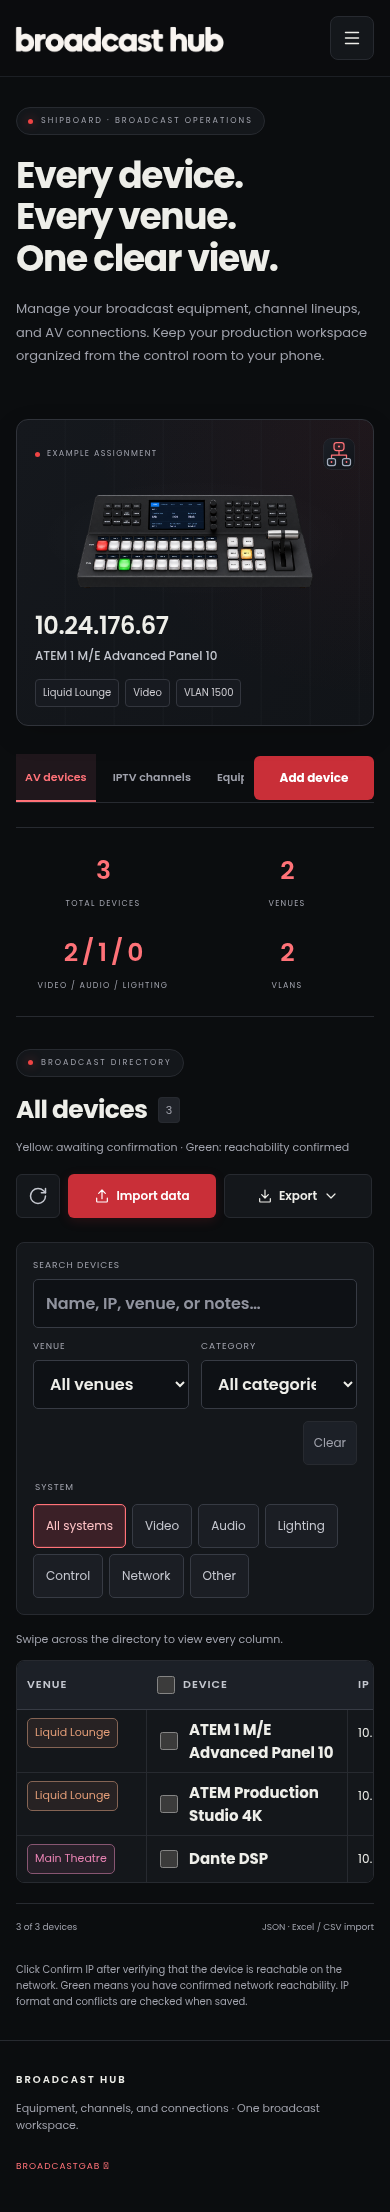
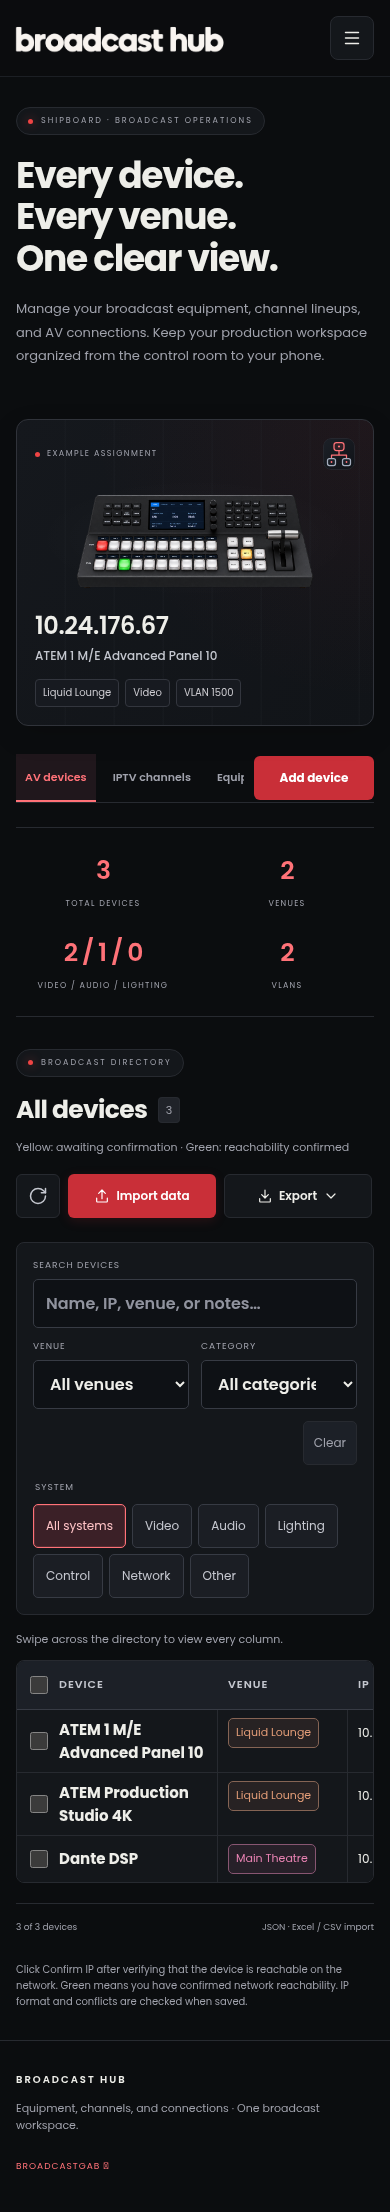
Align table checkboxes, fit inventory columns, and add batch deletion

Changed region(s): [[0.0615, 0.7486, 0.8308, 0.8422]]

diff --git a/static/index.html b/static/index.html
@@ -24,7 +24,7 @@
 <div id="loading" class="empty">Loading your inventory…</div>
 <div id="empty" class="empty" hidden><div class="empty-icon" aria-hidden="true">⌘</div><h3 id="empty-title">Your inventory starts here</h3><p id="empty-description">Add your first device to keep your ship’s AV network organized.</p><button id="empty-add" class="primary">Add a device</button><button id="use-example" class="quiet">Fill ATEM example</button></div>
 <div id="no-results" class="empty" hidden><h3>No matching devices</h3><p>Try a different search or clear the filters.</p></div>
-<div class="selection-summary" id="network-selection-summary" hidden><span id="network-selection-count" aria-live="polite"></span><button id="clear-network-selection" class="quiet" type="button">Clear selection</button></div><p class="directory-scroll-hint">Swipe across the directory to view every column.</p><div id="device-directory" class="device-directory" tabindex="0" role="region" aria-label="Broadcast device directory"><div class="directory-head" id="directory-head"><span id="directory-venue-title">VENUE</span><label class="selection-heading"><input id="select-visible-devices" class="row-select" type="checkbox" aria-label="Select all visible devices"><span id="directory-device-title">DEVICE</span></label><span>IP</span><span id="directory-vlan-title">VLAN</span><span id="directory-system-title">SYSTEM</span><div class="notes-sort-header"><span>NOTES</span><label class="directory-sort">Sort by<select id="sort-order"><option value="">Original order</option><option value="ip-asc">IP · Low to high</option><option value="ip-desc">IP · High to low</option><option value="name-asc">Name · A–Z</option><option value="name-desc">Name · Z–A</option><option value="system-asc">System · A–Z</option><option value="system-desc">System · Z–A</option></select></label><span class="sr-only">Actions</span></div></div><div id="device-list" class="device-list" aria-live="polite"></div></div>
+<div class="selection-summary" id="network-selection-summary" hidden><span id="network-selection-count" aria-live="polite"></span><div class="selection-actions"><button id="clear-network-selection" class="quiet" type="button">Clear selection</button><button id="delete-selected-devices" class="danger" type="button" disabled>Delete selected</button></div></div><p class="directory-scroll-hint">Swipe across the directory to view every column.</p><div id="device-directory" class="device-directory" tabindex="0" role="region" aria-label="Broadcast device directory"><div class="directory-head" id="directory-head"><label class="selection-heading"><input id="select-visible-devices" class="row-select" type="checkbox" aria-label="Select all visible devices"><span id="directory-device-title">DEVICE</span></label><span id="directory-venue-title">VENUE</span><span>IP</span><span id="directory-vlan-title">VLAN</span><span id="directory-system-title">SYSTEM</span><div class="notes-sort-header"><span>NOTES</span><label class="directory-sort">Sort by<select id="sort-order"><option value="">Original order</option><option value="ip-asc">IP · Low to high</option><option value="ip-desc">IP · High to low</option><option value="name-asc">Name · A–Z</option><option value="name-desc">Name · Z–A</option><option value="system-asc">System · A–Z</option><option value="system-desc">System · Z–A</option></select></label><span class="sr-only">Actions</span></div></div><div id="device-list" class="device-list" aria-live="polite"></div></div>
 <footer class="panel-footer"><span id="showing">0 devices</span><span>JSON · Excel / CSV import</span></footer>
 <div id="import-warnings" class="import-warnings" role="status" hidden><h3>Duplicate IP warnings</h3><p>AV IP addresses must be unique. Review skipped import rows or repeated existing assignments below.</p><ul id="import-warning-list"></ul></div>
 </section>
@@ -42,6 +42,7 @@
 </main><footer class="site-footer"><div><strong>BROADCAST HUB</strong><p>Equipment, channels, and connections · One broadcast workspace.</p></div><a href="https://broadcastgab.com" target="_blank" rel="noopener noreferrer">BROADCASTGAB ↗</a></footer>
 <dialog id="device-dialog" aria-labelledby="form-title"><form id="device-form"><div class="dialog-heading"><div><p class="eyebrow">DEVICE DETAILS</p><h2 id="form-title">Add device</h2></div><button type="button" id="close-dialog" class="icon-button" aria-label="Close">✕</button></div><p id="form-intro" class="dialog-intro">Give this device a home in your inventory.</p>
 <div class="form-grid"><input name="record_type" type="hidden" value="device"><label class="full"><span id="name-label">Device name</span><input name="name" maxlength="120" placeholder="e.g. ATEM video switcher" autocomplete="off"></label><label id="category-field">Category<input name="category" maxlength="120" list="categories" placeholder="e.g. Video switcher"><datalist id="categories"><option value="Video switcher"><option value="Camera"><option value="Display"><option value="Audio console"><option value="Amplifier"><option value="Lighting console"><option value="Network switch"><option value="Media server"></datalist></label><label id="form-system-group" class="full">System<select id="form-system" name="discipline"><option value=""></option><option value="Video">Video</option><option value="Audio">Audio</option><option value="Lighting">Lighting</option><option value="Control">Control</option><option value="Network">Network</option><option value="Other">Other</option></select></label><fieldset id="form-source-group" class="form-choices full" hidden><legend>Channel source</legend><input name="channel_source" type="hidden"><div id="form-source-buttons" class="choice-buttons" role="group" aria-label="Channel source"></div></fieldset><label class="full" id="venue-field">Venue<input name="venue" maxlength="120" list="venues" placeholder="e.g. Liquid Lounge"><datalist id="venues"></datalist></label><div class="full" id="venue-suggestions" hidden><p class="suggestion-label">Choose a saved venue, or type a new one above</p><div id="form-venue-buttons" class="choice-buttons" role="group" aria-label="Choose saved venue"></div></div><label>IP address<input name="ip" maxlength="15" inputmode="decimal" placeholder="10.24.176.66" autocomplete="off" spellcheck="false" aria-describedby="ip-hint"><small id="ip-hint">IPv4 · checked when saved</small></label><label id="vlan-field">VLAN<input name="vlan" type="number" min="1" max="4094" step="1" inputmode="numeric" placeholder="1500"><small>Optional · 1–4094</small></label><label id="port-field" hidden>Port<input name="port" type="number" min="1" max="65535" step="1" inputmode="numeric" placeholder="e.g. 1234"><small>1–65535</small></label><label class="full">Notes <span class="optional">(optional)</span><textarea name="notes" maxlength="2000" rows="3" placeholder="Rack location, port, or anything worth knowing…"></textarea></label></div><p id="form-error" class="error" role="alert" hidden></p><div class="dialog-actions"><button type="button" id="cancel-dialog" class="secondary">Cancel</button><button id="save-device" class="primary" type="submit">Save device</button></div></form></dialog>
+<dialog id="batch-delete-dialog" aria-labelledby="batch-delete-title"><h2 id="batch-delete-title">Delete selected devices?</h2><p id="batch-delete-description"></p><ul id="batch-delete-list" class="batch-delete-list"></ul><p>This cannot be undone.</p><p id="batch-delete-error" class="error" role="alert" hidden></p><div class="dialog-actions"><button id="cancel-batch-delete" class="secondary" type="button">Cancel</button><button id="confirm-batch-delete" class="danger" type="button">Delete selected</button></div></dialog>
 <dialog id="delete-dialog" aria-labelledby="delete-title"><h2 id="delete-title">Delete this device?</h2><p id="delete-description"></p><p>This removes the device from the shared inventory.</p><p id="delete-error" class="error" role="alert" hidden></p><div class="dialog-actions"><button id="cancel-delete" class="secondary">Keep device</button><button id="confirm-delete" class="danger">Delete device</button></div></dialog>
 <dialog id="equipment-dialog" aria-labelledby="equipment-form-title"><form id="equipment-form"><div class="dialog-heading"><div><p class="eyebrow">EQUIPMENT DETAILS</p><h2 id="equipment-form-title">Add equipment</h2></div><button type="button" id="close-equipment" class="icon-button" aria-label="Close equipment form">✕</button></div><p class="dialog-intro">Fill in the information you have. Missing fields can stay blank and be completed later.</p><div class="form-grid"><label>Brand<input id="equipment-brand" name="brand" maxlength="120" placeholder="e.g. Blackmagic Design"></label><label>Model<input id="equipment-model" name="model" maxlength="120" placeholder="e.g. ATEM Mini Pro"></label><label class="full">Description<textarea id="equipment-description" name="description" maxlength="2000" rows="2" placeholder="e.g. HDMI video switcher"></textarea></label><label>Serial number <span class="optional">(optional)</span><input id="equipment-serial_number" name="serial_number" maxlength="120" placeholder="Asset serial number"></label><label>Quantity<input id="equipment-quantity" name="quantity" type="number" min="0" max="1000000" step="1" inputmode="numeric"></label><label class="full">Location<input id="equipment-location" name="location" maxlength="120" list="equipment-location-options" placeholder="e.g. Broadcast center rack 2"><datalist id="equipment-location-options"></datalist></label><label class="full">Notes <span class="optional">(optional)</span><textarea id="equipment-notes" name="notes" maxlength="2000" rows="3" placeholder="Condition, accessories, or maintenance details…"></textarea></label></div><p id="equipment-form-error" class="error" role="alert" hidden></p><div class="dialog-actions"><button type="button" id="cancel-equipment" class="secondary">Cancel</button><button id="save-equipment" type="submit" class="primary">Save equipment</button></div></form></dialog>
 <dialog id="equipment-delete-dialog" aria-labelledby="equipment-delete-title"><h2 id="equipment-delete-title">Delete equipment?</h2><p id="equipment-delete-description"></p><p>This removes this record and its quantity from the equipment inventory.</p><p id="equipment-delete-error" class="error" role="alert" hidden></p><div class="dialog-actions"><button id="cancel-equipment-delete" class="secondary">Keep equipment</button><button id="confirm-equipment-delete" class="danger">Delete equipment</button></div></dialog>

diff --git a/static/style.css b/static/style.css
@@ -270,6 +270,8 @@ textarea { resize: vertical; }
 @media (max-width: 600px) {
   .brand { font-size: 10px; letter-spacing: 1.7px; }
   .inventory-tabs button { padding: 12px 9px; font-size: 11px; }
+}
+@media (max-width: 900px) {
   #equipment-table, #equipment-table tbody { display: block; background: transparent; }
   #equipment-table thead { position: absolute; width: 1px; height: 1px; overflow: hidden; clip: rect(0,0,0,0); }
   #equipment-table tr { display: block; padding: 12px 16px; border: 1px solid var(--border); border-radius: 8px; background: var(--panel); margin-bottom: 12px; }
@@ -286,8 +288,18 @@ textarea { resize: vertical; }
 #equipment-table th, #equipment-table td { border-right: 1px solid #373b44; }
 #equipment-table th:last-child, #equipment-table td:last-child { border-right: 0; }
 #equipment-table th { background: #1b1e24; }
-@media (min-width: 601px) { #equipment-table { min-width: 1050px; } }
-@media (max-width: 600px) {
+@media (min-width: 901px) {
+  #equipment-table th { vertical-align: middle; overflow-wrap: anywhere; }
+  #equipment-table th:nth-child(1) { width: 14%; }
+  #equipment-table th:nth-child(2) { width: 12%; }
+  #equipment-table th:nth-child(3) { width: 16%; }
+  #equipment-table th:nth-child(4) { width: 13%; }
+  #equipment-table th:nth-child(5) { width: 7%; }
+  #equipment-table th:nth-child(6) { width: 14%; }
+  #equipment-table th:nth-child(7) { width: 15%; }
+  #equipment-table th:nth-child(8) { width: 9%; }
+}
+@media (max-width: 900px) {
   #equipment-table td { display: block; padding: 12px; margin: 8px 0; border: 1px solid #373b44; border-radius: 5px; background: #101318; }
   #equipment-table td::before { display: block; padding: 0 0 8px; }
   #equipment-table td.equipment-actions { border: 0; background: transparent; padding: 6px 0; }
@@ -313,7 +325,7 @@ textarea { resize: vertical; }
 #row-review-dialog{width:min(1000px,calc(100vw - 32px));max-width:1000px}.review-line-scroll{overflow-x:auto;padding-bottom:10px}.review-line{display:grid;grid-template-columns:repeat(var(--review-columns,4),minmax(140px,1fr));gap:12px}.review-line label{min-width:0;font-size:12px}.review-line input,.review-line select,.review-line textarea{display:block;width:100%;margin-top:8px;min-height:44px;font-size:13px}.review-ip-actions{display:flex;gap:6px;margin-top:8px}.review-ip-actions button{min-height:44px;padding:8px 10px;font-size:12px}.review-scroll-hint{display:none;color:var(--muted);font-size:12px}@media(max-width:650px){.review-scroll-hint{display:block}}
 
 /* A shared grid keeps every heading aligned with the directory values. */
-.device-directory{--directory-columns:130px minmax(170px,1.2fr) 230px 75px 130px minmax(140px,.8fr) 104px;max-height:70vh;overflow:auto;position:relative;border:1px solid var(--border);border-radius:8px;margin-top:20px;scroll-padding-top:48px;background:var(--panel)}
+.device-directory{--directory-columns:minmax(170px,1.2fr) 130px 230px 75px 130px minmax(140px,.8fr) 104px;max-height:70vh;overflow:auto;position:relative;border:1px solid var(--border);border-radius:8px;margin-top:20px;scroll-padding-top:48px;background:var(--panel)}
 .device-directory.iptv-directory{--directory-columns:minmax(210px,1.4fr) 180px 145px minmax(180px,.8fr) 108px}
 .directory-head,.device-directory .device-row{display:grid;grid-template-columns:var(--directory-columns);gap:0;min-width:1010px;align-items:start;padding:0;border:0;border-radius:0}
 .directory-head{position:sticky;top:0;z-index:2;background:#1c2027;border-bottom:1px solid #373b44;font:600 11px var(--font-ui);letter-spacing:1px;color:#c4c7cf}
@@ -421,5 +433,9 @@ input.row-select{width:18px;height:18px;min-height:18px;margin:0;padding:0;flex-
 #equipment-table .selection-heading{padding:0}
 .equipment-brand-value{display:flex;align-items:center;gap:6px}
 .equipment-brand-value>span{min-width:0;overflow-wrap:anywhere}
-.selection-summary{display:flex;align-items:center;justify-content:space-between;gap:12px;margin-top:14px;color:var(--muted);font-size:11px}
+.selection-summary{display:flex;flex-wrap:wrap;align-items:center;justify-content:space-between;gap:12px;margin-top:14px;color:var(--muted);font-size:11px}
 .selection-summary button{min-height:32px;padding:6px 8px;font-size:11px}
+
+.selection-actions{display:flex;align-items:center;gap:8px;flex-wrap:wrap;justify-content:flex-end}
+.batch-delete-list{max-height:240px;overflow-y:auto;padding-left:22px;font-size:12px;line-height:1.8;overflow-wrap:anywhere}
+.selection-heading input.row-select{margin-inline:3px}

diff --git a/static/app.js b/static/app.js
@@ -30,6 +30,7 @@ mobileNavigation.addEventListener('change', () => setNavigationOpen(false, mainN
 let devices = [], editing = null, deleting = null, timer, currentTab = 'device';
 let visibleDevices = [];
 const networkSelections = {device:new Set(), iptv:new Set()};
+let batchDeletingIds = [];
 let importWarnings = [];
 const pendingNoteSaves = new Map();
 const pendingWrites = new Set();
@@ -332,6 +333,7 @@ function updateNetworkSelection() {
   check.setAttribute('aria-label', `Select all visible ${currentTab === 'iptv' ? 'channels' : 'devices'}`);
   $('device-list').querySelectorAll('.row-select').forEach(checkbox => { checkbox.checked = selected.has(Number(checkbox.dataset.recordId)); });
   $('network-selection-summary').hidden = !selected.size;
+  $('delete-selected-devices').disabled = !selected.size;
   $('network-selection-count').textContent = `${selected.size} selected${selected.size > visibleSelected ? ` · ${selected.size - visibleSelected} outside current filters` : ''}`;
   updateExportScope('network-export-scope', visibleDevices.length, selected.size, devices.length);
 }
@@ -342,6 +344,35 @@ $('select-visible-devices').onchange = event => {
   updateNetworkSelection();
 };
 $('clear-network-selection').onclick = () => { networkSelections[currentTab].clear(); updateNetworkSelection(); };
+$('delete-selected-devices').onclick = () => {
+  const selected = tabDevices().filter(row => networkSelections[currentTab].has(row.id));
+  if (!selected.length) return;
+  batchDeletingIds = selected.map(row => row.id);
+  const hiddenCount = selected.filter(row => !visibleDevices.some(visible => visible.id === row.id)).length;
+  const type = currentTab === 'iptv' ? 'channel' : 'device';
+  $('batch-delete-title').textContent = `Delete ${selected.length} ${type}${selected.length === 1 ? '' : 's'}?`;
+  $('batch-delete-description').textContent = `This permanently removes the selected records from the shared inventory.${hiddenCount ? ` ${hiddenCount} selected ${hiddenCount === 1 ? 'record is' : 'records are'} outside the current filters.` : ''}`;
+  $('batch-delete-list').replaceChildren(...selected.map(row => element('li', '', [deviceLabel(row), row.venue, row.ip].filter(Boolean).join(' · '))));
+  $('confirm-batch-delete').textContent = `Delete ${selected.length} ${type}${selected.length === 1 ? '' : 's'}`;
+  $('batch-delete-error').hidden = true;
+  $('batch-delete-dialog').showModal(); $('cancel-batch-delete').focus();
+};
+$('cancel-batch-delete').onclick = () => $('batch-delete-dialog').close();
+$('confirm-batch-delete').onclick = async () => {
+  const ids = [...batchDeletingIds];
+  $('confirm-batch-delete').disabled = true;
+  $('cancel-batch-delete').disabled = true;
+  try {
+    await Promise.allSettled([...pendingNoteSaves.values(), ...pendingWrites]);
+    const result = await api('/api/devices/batch-delete', 'POST', {ids});
+    for (const selected of Object.values(networkSelections)) ids.forEach(id => selected.delete(id));
+    $('batch-delete-dialog').close(); toast(`${result.deleted} ${result.deleted === 1 ? 'record' : 'records'} deleted.`); await load();
+  } catch(error) { $('batch-delete-error').textContent = error.message; $('batch-delete-error').hidden = false; }
+  finally { $('confirm-batch-delete').disabled = false; $('cancel-batch-delete').disabled = false; }
+};
+$('batch-delete-dialog').addEventListener('cancel', event => {
+  if ($('confirm-batch-delete').disabled) event.preventDefault();
+});
 document.querySelectorAll('.export-dropdown').forEach(menu => {
   menu.addEventListener('toggle', () => {
     if (menu.open) document.querySelectorAll('.export-dropdown').forEach(other => { if (other !== menu) other.open = false; });
@@ -521,8 +552,9 @@ function render() {
     const remove = element('button', 'quiet', 'Delete'); remove.setAttribute('aria-label', `Delete ${deviceLabel(device)}`);
     remove.onclick = () => { deleting = device; $('delete-description').textContent = `${device.name} · ${device.ip} · ${iptv ? 'Port ' + (device.port || 'not set') : 'VLAN ' + device.vlan}`; $('delete-error').hidden = true; $('delete-dialog').showModal(); $('cancel-delete').focus(); };
     actions.append(edit,remove);
+    row.append(identity);
     if (!iptv) row.append(venue);
-    row.append(identity,ip);
+    row.append(ip);
     if (!iptv) row.append(element('div', 'vlan-cell', device.vlan ?? ''));
     row.append(system,notesCell,actions); return row;
   });

diff --git a/tests/browser_check.py b/tests/browser_check.py
@@ -589,8 +589,8 @@ with tempfile.TemporaryDirectory() as temp:
             page.reload()
             page.locator('#venue-filter option[value="Main Lounge"]').wait_for(state='attached')
             assert page.get_by_role('combobox', name='System for Unassigned camera', exact=True).get_attribute('data-value') == 'Video'
-            assert page.locator('#directory-head span:not(.sr-only)').all_text_contents() == ['VENUE','DEVICE','IP','VLAN','SYSTEM','NOTES']
-            assert page.locator('.device-row').first.locator(':scope > div').evaluate_all('(nodes) => nodes.map(n => n.className)') == ['venue-cell','device-identity identity-cell','ip-cell','vlan-cell','system-cell','notes-cell','row-actions']
+            assert page.locator('#directory-head span:not(.sr-only)').all_text_contents() == ['DEVICE','VENUE','IP','VLAN','SYSTEM','NOTES']
+            assert page.locator('.device-row').first.locator(':scope > div').evaluate_all('(nodes) => nodes.map(n => n.className)') == ['device-identity identity-cell','venue-cell','ip-cell','vlan-cell','system-cell','notes-cell','row-actions']
             directory = page.locator('#device-directory')
             header_top = page.locator('#directory-head').evaluate('(node) => node.getBoundingClientRect().top')
             directory.evaluate('(node) => { node.scrollTop = 200; }')
@@ -876,6 +876,51 @@ with tempfile.TemporaryDirectory() as temp:
                 assert page.evaluate('document.documentElement.scrollWidth <= innerWidth')
                 page.keyboard.press('Escape')
                 assert page.get_by_role('checkbox', name='Select equipment Export spare', exact=True).is_visible()
+            # Batch deletion previews hidden selections, supports cancellation, and
+            # removes only the confirmed IDs while keeping other inventories intact.
+            page.set_viewport_size({'width':1440,'height':1000})
+            assert page.locator('#equipment-rows .row-select').evaluate_all('(nodes) => {const x=document.getElementById("select-visible-equipment").getBoundingClientRect().left; return nodes.every(n=>Math.abs(n.getBoundingClientRect().left-x)<1);}')
+            for name, venue in [('Batch delete A','Batch lounge'), ('Batch delete B','Batch theatre'), ('Batch keep C','Batch theatre')]:
+                response = page.request.post(f'http://127.0.0.1:{server.server_port}/api/devices', data={'name':name,'venue':venue})
+                assert response.status == 201
+            page.get_by_role('tab', name='AV devices', exact=True).click()
+            page.locator('#refresh').click()
+            page.wait_for_function("() => !document.getElementById('refresh').disabled")
+            page.locator('#clear-filters').click()
+            page.locator('#clear-network-selection').click() if page.locator('#network-selection-summary').is_visible() else None
+            assert page.locator('.device-row .row-select').evaluate_all('(nodes) => {const x=document.getElementById("select-visible-devices").getBoundingClientRect().left; return nodes.every(n=>Math.abs(n.getBoundingClientRect().left-x)<1);}')
+            page.locator('#venue-filter').select_option('Batch lounge')
+            page.get_by_role('checkbox', name='Select Batch delete A', exact=True).check()
+            page.locator('#venue-filter').select_option('Batch theatre')
+            page.get_by_role('checkbox', name='Select Batch delete B', exact=True).check()
+            before = app.inventory()
+            page.locator('#delete-selected-devices').click()
+            assert page.locator('#batch-delete-title').inner_text() == 'Delete 2 devices?'
+            assert '1 selected record is outside' in page.locator('#batch-delete-description').inner_text()
+            assert page.locator('#batch-delete-list li').count() == 2
+            assert 'Batch keep C' not in page.locator('#batch-delete-list').inner_text()
+            page.locator('#cancel-batch-delete').click()
+            assert app.inventory() == before
+            page.locator('#delete-selected-devices').click()
+            page.locator('#confirm-batch-delete').click()
+            page.locator('#batch-delete-dialog').wait_for(state='hidden')
+            page.wait_for_function("() => !document.getElementById('confirm-batch-delete').disabled")
+            assert len(app.inventory()) == len(before)-2
+            assert not any(row['name'] in ['Batch delete A','Batch delete B'] for row in app.inventory())
+            assert any(row['name']=='Batch keep C' for row in app.inventory())
+            assert page.locator('#network-selection-summary').is_hidden()
+            page.get_by_role('tab', name='IPTV channels', exact=True).click()
+            if page.locator('#network-selection-summary').is_visible():
+                page.locator('#clear-network-selection').click()
+            page.locator('#search').fill('IPTV sort')
+            page.locator('#select-visible-devices').check()
+            page.locator('#delete-selected-devices').click()
+            assert page.locator('#batch-delete-title').inner_text() == 'Delete 2 channels?'
+            page.locator('#confirm-batch-delete').click()
+            page.locator('#batch-delete-dialog').wait_for(state='hidden')
+            page.wait_for_function("() => !document.getElementById('confirm-batch-delete').disabled")
+            assert not any(row['name'].startswith('IPTV sort') for row in app.inventory())
+            assert any(row['name']=='Batch keep C' for row in app.inventory())
             assert not errors, errors
             browser.close()
             print('PASS: mobile create, all filters, validation, edit, export, delete, import, reload persistence; filtered/selected downloads across inventories; desktop/mobile overflow; no JS errors.')

diff --git a/tests/test_app.py b/tests/test_app.py
@@ -103,6 +103,27 @@ class AppTests(unittest.TestCase):
             self.assertEqual(self.request(path)[0], 200)
         self.assertEqual(self.request('/../app.py')[0], 404)
 
+    def test_batch_delete_only_selected_ids_and_retry(self):
+        first = self.request('/api/devices', 'POST', EXAMPLE)[1]
+        second = self.request('/api/devices', 'POST', dict(name='Camera', venue='Theatre', ip='10.24.176.67'))[1]
+        keep = self.request('/api/devices', 'POST', dict(name='DSP', ip='10.24.176.68'))[1]
+        channel = self.request('/api/devices', 'POST', dict(record_type='iptv', name='Channel', ip='239.1.1.1', port=5000))[1]
+        payload = {'ids':[first['id'], second['id'], first['id'], 999999]}
+        self.assertEqual(self.request('/api/devices/batch-delete', 'POST', payload), (200, {'deleted':2}))
+        self.assertEqual({row['id'] for row in app.inventory()}, {keep['id'], channel['id']})
+        self.assertEqual(self.request('/api/devices/batch-delete', 'POST', payload), (200, {'deleted':0}))
+        self.assertEqual(self.request('/api/devices/batch-delete', 'POST', {'ids':[channel['id']]}), (200, {'deleted':1}))
+        self.assertEqual([row['id'] for row in app.inventory()], [keep['id']])
+
+    def test_invalid_batch_delete_is_atomic_and_cross_origin_rejected(self):
+        saved = self.request('/api/devices', 'POST', EXAMPLE)[1]
+        for payload in [{}, [], {'ids':[]}, {'ids':'all'}, {'ids':[saved['id'], False]}, {'ids':[saved['id'], '2']}, {'ids':[saved['id'], -1]}]:
+            with self.subTest(payload=payload):
+                self.assertEqual(self.request('/api/devices/batch-delete', 'POST', payload)[0], 400)
+                self.assertEqual([row['id'] for row in app.inventory()], [saved['id']])
+        self.assertEqual(self.request('/api/devices/batch-delete', 'POST', {'ids':[saved['id']]}, {'Content-Type':'application/json','Origin':'https://other.example'})[0], 403)
+        self.assertEqual([row['id'] for row in app.inventory()], [saved['id']])
+
 
 if __name__ == '__main__':
     unittest.main()

diff --git a/app.py b/app.py
@@ -498,6 +498,14 @@ class Handler(BaseHTTPRequestHandler):
             return self.send(201, save_equipment(self.body()))
         elif self.command == 'POST' and path == '/api/equipment/import':
             return self.send(200, import_equipment(self.body()))
+        elif self.command == 'POST' and path == '/api/devices/batch-delete':
+            payload = self.body()
+            ids = payload.get('ids') if isinstance(payload, dict) else None
+            if not isinstance(ids, list) or not ids or len(ids) > 10000 or any(type(value) is not int or value < 1 for value in ids):
+                raise ValueError('Choose between 1 and 10,000 device IDs, using positive whole numbers.')
+            with connect() as con:
+                deleted = con.executemany('DELETE FROM devices WHERE id=?', ((value,) for value in dict.fromkeys(ids))).rowcount
+            return self.send(200, {'deleted': deleted})
         elif self.command in ('PUT','DELETE') and path.startswith('/api/equipment/'):
             try:
                 item_id = int(path.removeprefix('/api/equipment/'))

diff --git a/README.md b/README.md
@@ -61,7 +61,11 @@ The **Equipment inventory** tab contains **Brand, Model, Description, Serial num
 
 Use **Import data** within this tab to map Excel/CSV columns to these seven fields. Headers such as BRAND, MODEL, SERIAL NUMBER, QUANTITY, LOCATION and NOTES are matched automatically; Manufacturer, Qty and S/N are supported too. There are no default-value inputs; missing columns and blank cells remain blank for the user to fill through Edit. Previewing does not write records. Review each row and choose Yes to save it or SKIP to leave it out. An invalid value keeps that row open for correction or skipping; previously accepted rows remain saved. Nonempty serial numbers must be unique (case insensitive). For stock without a serial, brand/model/description/location identifies the record when brand, model, and location are all known. Preview location buttons can be renamed before import; the new name applies to all matching rows. Incomplete records without a known serial or complete stock identity are kept separately. Existing records are skipped on import; their quantities are not added or overwritten. Use Edit to adjust stock counts.
 
+Filter the equipment list using **Location**; combine it with Search equipment to narrow the results further. Choose **Export → Current view** to download only that location’s matching items. All inventory rows remain on one page. The desktop table fits all seven fields and actions across the available width; at 900px and below, each item displays its fields in a card without horizontal scrolling.
+
 Equipment JSON/CSV downloads export the physical inventory only, while the AV/IPTV downloads export network/channel records. Import equipment JSON in the Equipment inventory tab. All three inventories persist in the same SQLite file, so a database backup captures all of them. Existing AV/IPTV records are preserved when the equipment table is created automatically on startup.
+
+The AV directory shows **Device | Venue | IP | VLAN | System | Notes**, with aligned selection checkboxes in the Device column. Check rows, then choose **Delete selected** to remove several AV devices or IPTV channels together. The confirmation lists the selected records and warns when some are outside the current filters. Cancel keeps them; confirming permanently deletes only those records. The header checkbox selects all visible records, so you can filter first to delete a specific group.
 
 ## Files and backup
 
